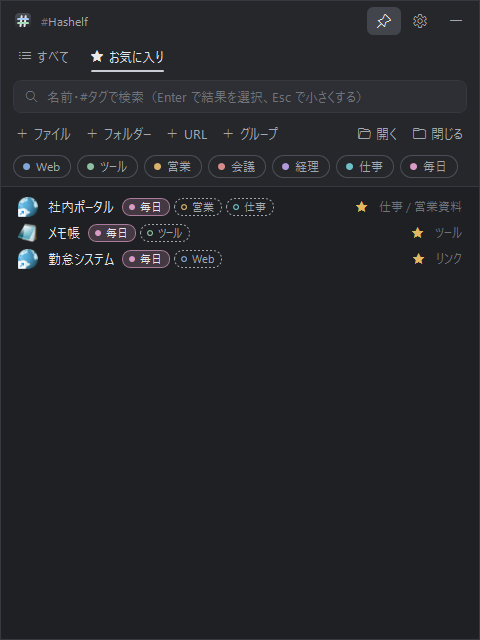
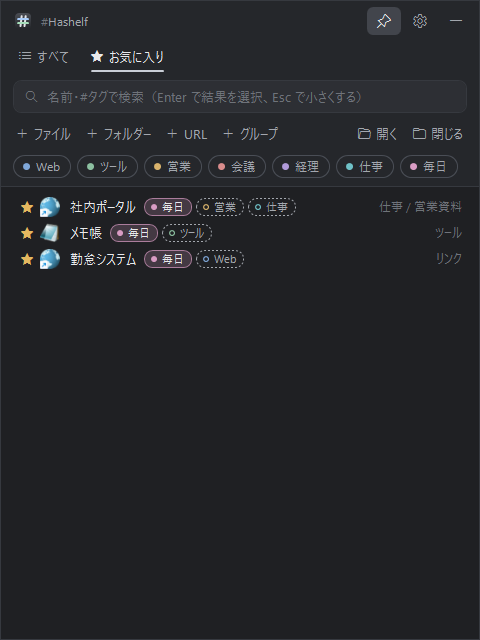
お気に入りの星を行の先頭に置き、クリックで切り替えられるようにする

Changed region(s): [[0.0312, 0.2812, 0.625, 0.4375], [0.8438, 0.3438, 0.875, 0.375], [0.75, 0.3125, 0.7812, 0.3438]]

diff --git a/src/DesktopLauncher/MainWindow.xaml b/src/DesktopLauncher/MainWindow.xaml
@@ -129,7 +129,6 @@
         </Style>
 
         <controls:TagBrushConverter x:Key="TagBrush" />
-        <BooleanToVisibilityConverter x:Key="VisibleWhenTrue" />
         <SolidColorBrush x:Key="FavoriteBrush" Color="#E3B860" />
 
         <!-- 「すべて」「お気に入り」… above the search box; the chosen one is bright and underlined. -->
@@ -162,14 +161,45 @@
             </Setter>
         </Style>
 
-        <!-- Star at the end of a favorite's row. -->
-        <Style x:Key="FavoriteStar" TargetType="TextBlock" BasedOn="{StaticResource Glyph}">
-            <Setter Property="Text" Value="&#xE735;" />
-            <Setter Property="FontSize" Value="11" />
-            <Setter Property="Foreground" Value="{StaticResource FavoriteBrush}" />
-            <Setter Property="Margin" Value="8,0,0,0" />
-            <Setter Property="ToolTip" Value="お気に入り" />
-            <Setter Property="Visibility" Value="{Binding IsFavorite, Converter={StaticResource VisibleWhenTrue}}" />
+        <!-- Star at the start of a row; click to toggle. A favorite shows a filled star, other items an outline
+             only while the row is hovered. Groups keep the space empty so that icons stay aligned. -->
+        <Style x:Key="FavoriteStar" TargetType="Button">
+            <Setter Property="Tag" Value="star" />
+            <Setter Property="Width" Value="18" />
+            <Setter Property="Height" Value="20" />
+            <Setter Property="Margin" Value="0,0,4,0" />
+            <Setter Property="Focusable" Value="False" />
+            <Setter Property="Cursor" Value="Hand" />
+            <Setter Property="ToolTip" Value="お気に入りに追加（Ctrl+D）" />
+            <Setter Property="Template">
+                <Setter.Value>
+                    <ControlTemplate TargetType="Button">
+                        <Border Background="Transparent">
+                            <TextBlock x:Name="Glyph" Text="&#xE734;" Style="{StaticResource Glyph}" FontSize="12"
+                                       Foreground="{StaticResource TextTertiaryBrush}" Opacity="0" />
+                        </Border>
+                        <ControlTemplate.Triggers>
+                            <DataTrigger Binding="{Binding IsMouseOver, RelativeSource={RelativeSource AncestorType=DockPanel}}" Value="True">
+                                <Setter TargetName="Glyph" Property="Opacity" Value="1" />
+                            </DataTrigger>
+                            <Trigger Property="IsMouseOver" Value="True">
+                                <Setter TargetName="Glyph" Property="Foreground" Value="{StaticResource TextBrush}" />
+                            </Trigger>
+                            <DataTrigger Binding="{Binding IsFavorite}" Value="True">
+                                <Setter TargetName="Glyph" Property="Text" Value="&#xE735;" />
+                                <Setter TargetName="Glyph" Property="Foreground" Value="{StaticResource FavoriteBrush}" />
+                                <Setter TargetName="Glyph" Property="Opacity" Value="1" />
+                                <Setter Property="ToolTip" Value="お気に入りから外す（Ctrl+D）" />
+                            </DataTrigger>
+                        </ControlTemplate.Triggers>
+                    </ControlTemplate>
+                </Setter.Value>
+            </Setter>
+            <Style.Triggers>
+                <DataTrigger Binding="{Binding IsGroup}" Value="True">
+                    <Setter Property="Visibility" Value="Hidden" />
+                </DataTrigger>
+            </Style.Triggers>
         </Style>
 
         <!-- Name followed by the node's tags; tags that do not fit end in "…".
@@ -421,13 +451,13 @@
                         <HierarchicalDataTemplate ItemsSource="{Binding Children}">
                             <Border Tag="row" Style="{StaticResource RowStyle}">
                                 <DockPanel>
+                                    <Button Style="{StaticResource FavoriteStar}" Click="FavoriteStar_Click" />
                                     <Grid Width="20" Height="20" Margin="0,0,10,0">
                                         <Image Source="{Binding Icon}" Style="{StaticResource ItemIcon}" />
                                         <TextBlock Style="{StaticResource GroupGlyph}" />
                                     </Grid>
                                     <TextBlock DockPanel.Dock="Right" Text="{Binding ChildCountText}" Style="{StaticResource MetaText}"
                                                Margin="8,0,0,0" />
-                                    <TextBlock DockPanel.Dock="Right" Style="{StaticResource FavoriteStar}" />
                                     <controls:NameTagsPanel HorizontalAlignment="Left">
                                         <TextBlock Text="{Binding Name}" Style="{StaticResource NameText}" />
                                         <ItemsControl Style="{StaticResource RowTags}" />
@@ -455,10 +485,10 @@
                     <ListBox.ItemTemplate>
                         <DataTemplate>
                             <DockPanel>
+                                <Button Style="{StaticResource FavoriteStar}" Click="FavoriteStar_Click" />
                                 <Image Source="{Binding Icon}" Style="{StaticResource ItemIcon}" Margin="0,0,10,0" />
                                 <TextBlock DockPanel.Dock="Right" Text="{Binding Location}" Style="{StaticResource MetaText}"
                                            Margin="12,0,0,0" />
-                                <TextBlock DockPanel.Dock="Right" Style="{StaticResource FavoriteStar}" />
                                 <controls:NameTagsPanel HorizontalAlignment="Left">
                                     <TextBlock Text="{Binding Name}" Style="{StaticResource NameText}" />
                                     <ItemsControl Style="{StaticResource RowTags}" />

diff --git a/docs/portfolio/guide.html b/docs/portfolio/guide.html
@@ -195,7 +195,7 @@
         <li>背景に色が付いたタグは、項目に直接付けたタグです。<br>点線の枠で丸が白抜きのタグは、グループから引き継いだタグです。</li>
         <li>上の段のタグを押すと、そのタグが付いた項目だけを表示します。<br>もう一度押すと元に戻ります。</li>
         <li>「＋ファイル」「＋フォルダー」「＋URL」「＋グループ」で追加できます。<br>エクスプローラーやブラウザからのドラッグや、コピーしたものの Ctrl + V でも登録できます。</li>
-        <li>項目を右クリックすると、「編集…」「お気に入りに追加」「移動」「上へ」「下へ」「ランチャーから削除」などが選べます。<br>お気に入りの項目には ★ が付きます。</li>
+        <li>項目を右クリックすると、「編集…」「お気に入りに追加」「移動」「上へ」「下へ」「ランチャーから削除」などが選べます。<br>お気に入りの項目は、行の先頭に ★ が付きます。</li>
       </ol>
     </div>
   </div>
@@ -209,7 +209,7 @@
     <div class="screen-row">
       <figure><img src="images/favorites.png" alt="お気に入りタブ"><figcaption>お気に入りにした項目だけが並びます（架空のサンプル）</figcaption></figure>
       <ol class="points">
-        <li>項目を右クリックして「お気に入りに追加」を選ぶか、項目を選んで Ctrl + D を押すと、お気に入りになります。<br>もう一度同じ操作をすると外れます。</li>
+        <li>行の先頭の ☆ をクリックすると、お気に入りになります（マウスを乗せると ☆ が出ます）。<br>右クリックの「お気に入りに追加」や、Ctrl + D でも同じです。<br>もう一度同じ操作をすると外れます。</li>
         <li>どのグループに入っている項目でも、まとめて一覧にできます。<br>右側に、どのグループにあるかを表示します。</li>
         <li>タグを作るときのように名前を決める必要がないので、「お気に入り」「ブックマーク」のような似た名前が増えません。</li>
         <li>検索欄や上の段のタグと組み合わせて、お気に入りの中から絞り込めます。</li>

diff --git a/src/DesktopLauncher/MainWindow.xaml.cs b/src/DesktopLauncher/MainWindow.xaml.cs
@@ -506,7 +506,7 @@ public partial class MainWindow : Window
 
     private void SearchItem_MouseDoubleClick(object sender, MouseButtonEventArgs e)
     {
-        if (e.ChangedButton != MouseButton.Left || Keyboard.Modifiers != ModifierKeys.None) return;
+        if (e.ChangedButton != MouseButton.Left || Keyboard.Modifiers != ModifierKeys.None || IsOnStar(e.OriginalSource)) return;
         if (sender is ListBoxItem { DataContext: LauncherItem node }) Launch(node);
     }
 
@@ -616,7 +616,7 @@ public partial class MainWindow : Window
     private void Tree_PreviewMouseLeftButtonDown(object sender, MouseButtonEventArgs e)
     {
         _pressPoint = e.GetPosition(Tree);
-        _pressedNode = RowFrom(e.OriginalSource)?.Node;
+        _pressedNode = IsOnStar(e.OriginalSource) ? null : RowFrom(e.OriginalSource)?.Node;
         _collapseOnUp = false;
         if (_pressedNode is not { } node) return;
 
@@ -778,6 +778,23 @@ public partial class MainWindow : Window
             if (current is FrameworkElement { Tag: "row", DataContext: LauncherItem node } row) return (node, row);
         }
         return null;
+    }
+
+    /// <summary>The star at the start of a row toggles the favorite; it must not select, drag or launch the row.</summary>
+    private static bool IsOnStar(object source)
+    {
+        for (var current = source as DependencyObject; current is not null; current = ParentOf(current))
+        {
+            if (current is FrameworkElement { Tag: "star" }) return true;
+            if (current is FrameworkElement { Tag: "row" } or ListBoxItem or TreeViewItem) return false;
+        }
+        return false;
+    }
+
+    private void FavoriteStar_Click(object sender, RoutedEventArgs e)
+    {
+        if (sender is FrameworkElement { DataContext: LauncherItem node }) ToggleFavorite([node]);
+        e.Handled = true;
     }
 
     private static LauncherItem? NodeFrom(object source)
